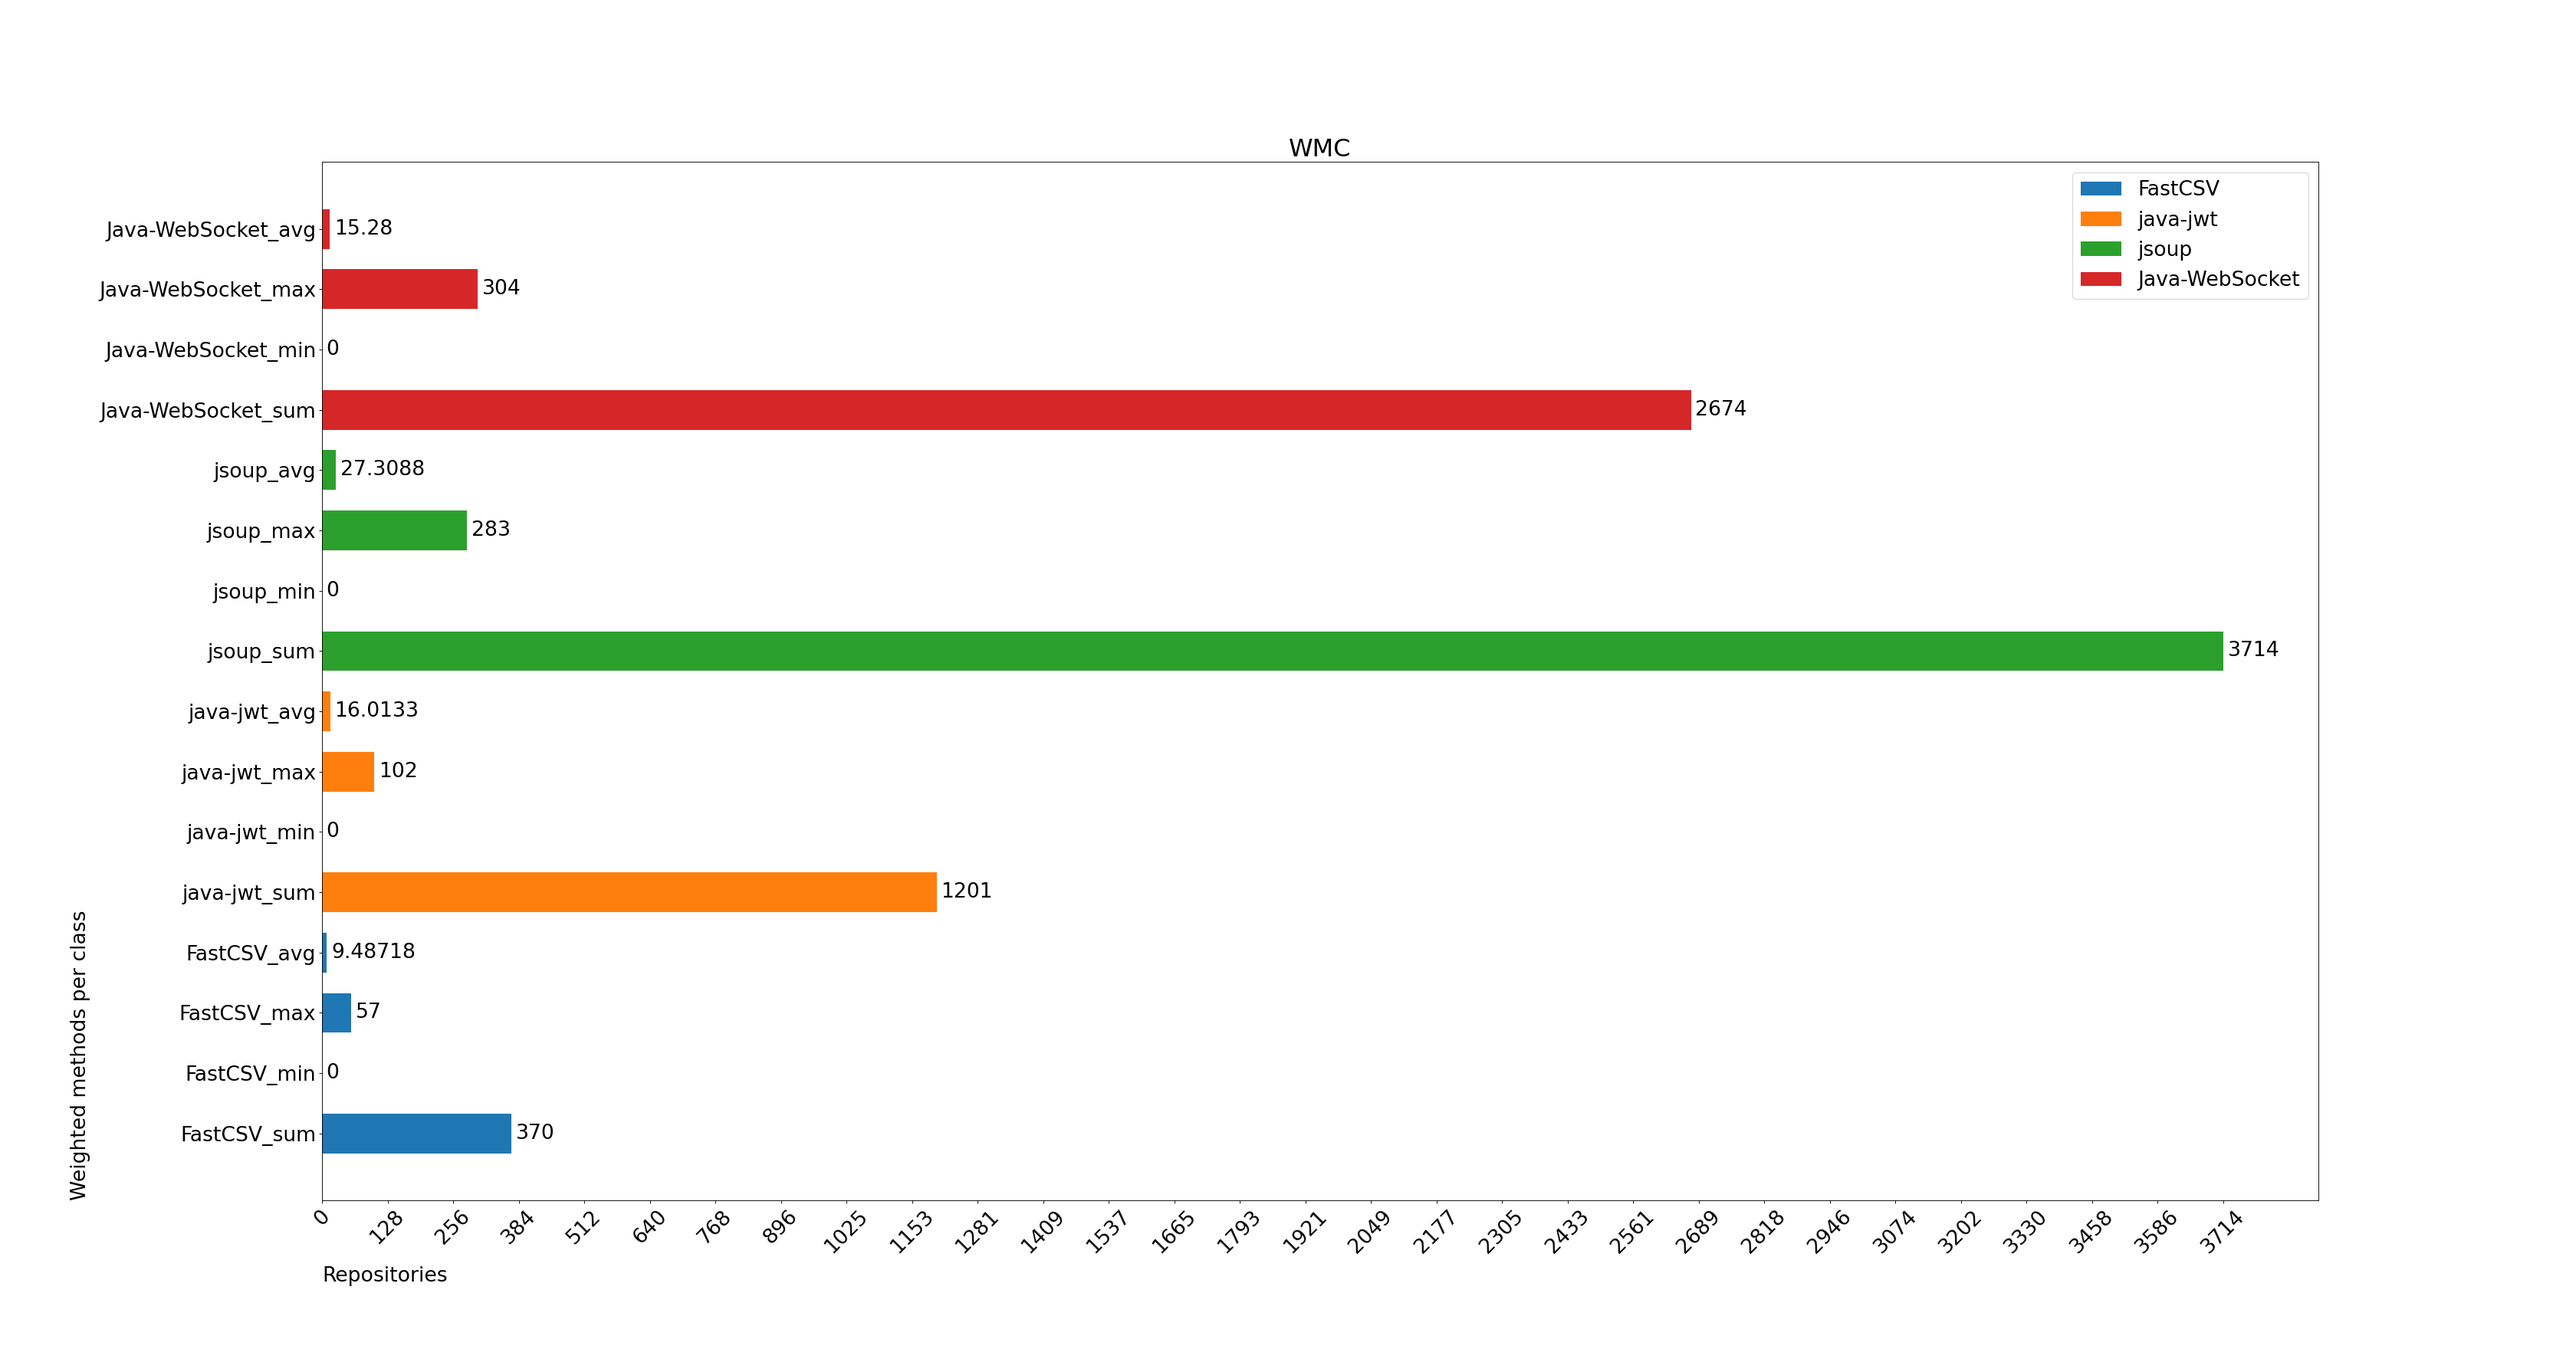
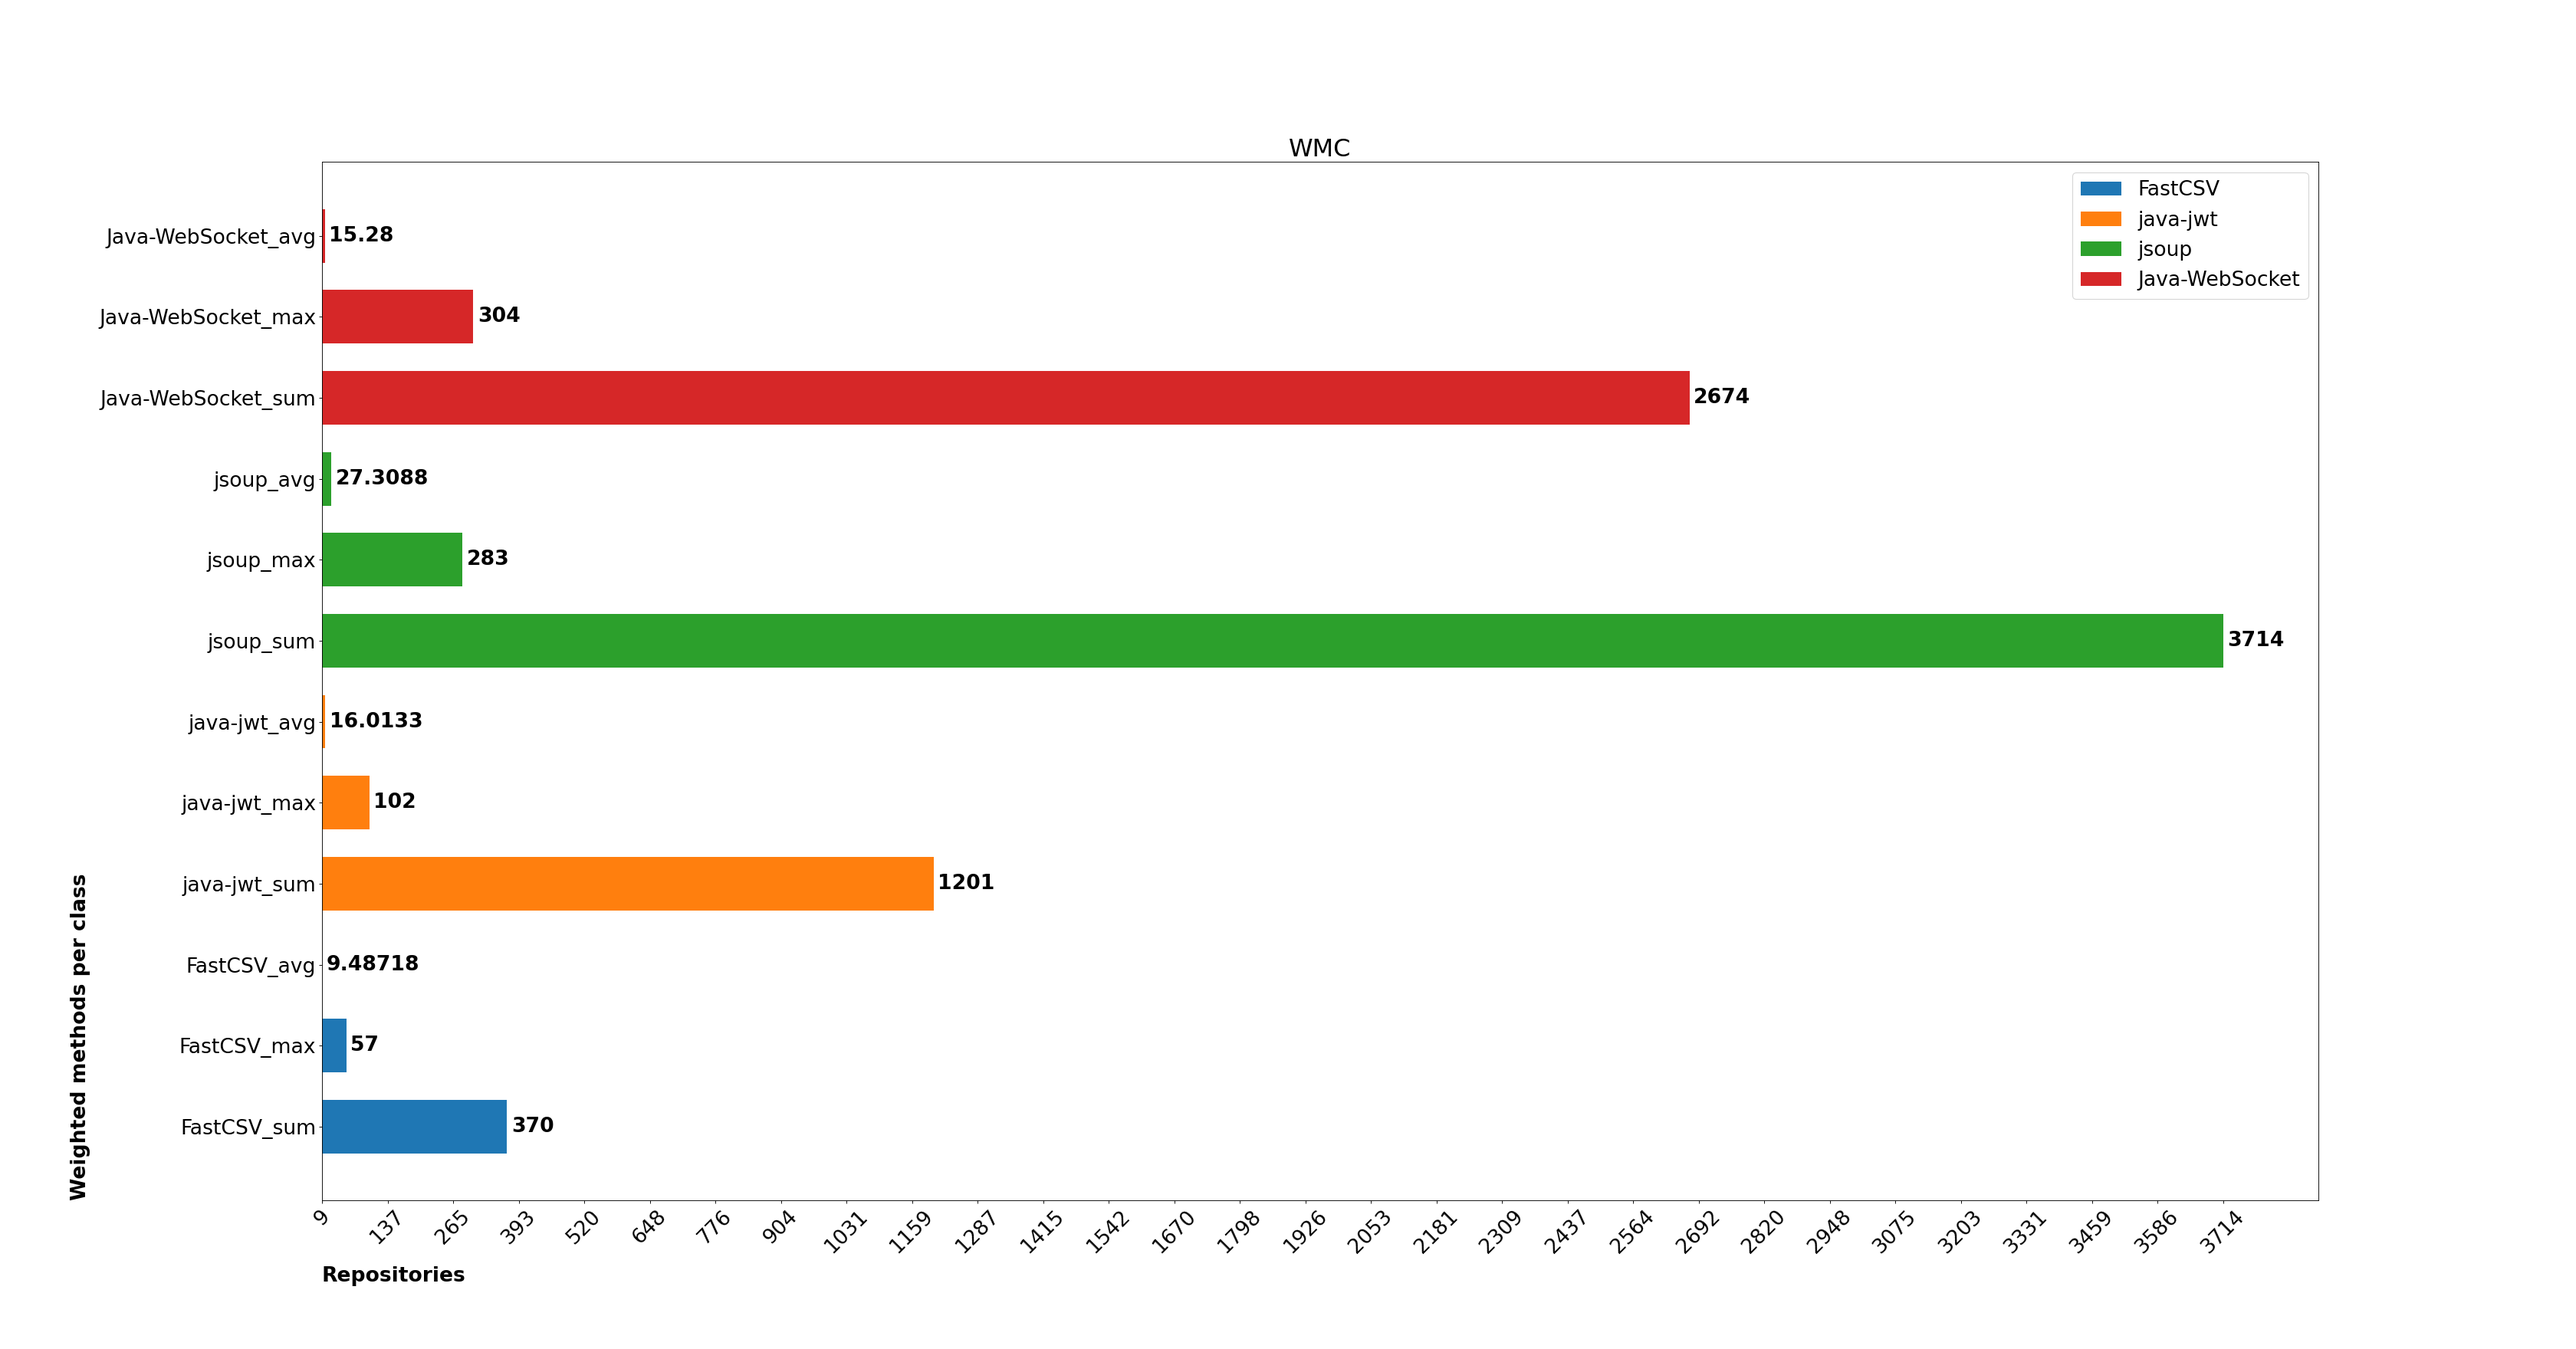
Remove minimum from static analysis graphs and fix graphical details

diff --git a/static-analysis.py b/static-analysis.py
@@ -35,12 +35,12 @@ def read_measures(repository_name, version, abc, npm, npa, wmc, coa, cda, size, 
     pub_att = [float(x) for x in pub_att]
     wmc_val = [float(x) for x in wmc_val]
     # print(magn)
-    abc.append( [min(magn), max(magn), sum(magn)/len(magn), sum(magn)] )
-    npm.append( [min(pub_met), max(pub_met), sum(pub_met)/len(pub_met), sum(pub_met)] )
-    npa.append( [min(pub_att), max(pub_att), sum(pub_att)/len(pub_att), sum(pub_att)] )
-    cda.append( [min(cda_val), max(cda_val), sum(cda_val)/len(cda_val), sum(cda_val)] )
-    coa.append( [min(coa_val), max(coa_val), sum(coa_val)/len(coa_val), sum(coa_val)] )
-    wmc.append( [min(wmc_val), max(wmc_val), sum(wmc_val)/len(wmc_val), sum(wmc_val)] )
+    abc.append( [max(magn), sum(magn)/len(magn), sum(magn)] )
+    npm.append( [max(pub_met), sum(pub_met)/len(pub_met), sum(pub_met)] )
+    npa.append( [max(pub_att), sum(pub_att)/len(pub_att), sum(pub_att)] )
+    cda.append( [max(cda_val), sum(cda_val)/len(cda_val), sum(cda_val)] )
+    coa.append( [max(coa_val), sum(coa_val)/len(coa_val), sum(coa_val)] )
+    wmc.append( [max(wmc_val), sum(wmc_val)/len(wmc_val), sum(wmc_val)] )
     size.append( [sum(magn), sum(hal_val), sum(loc_val), sum(cyc_val)] )
     print( [sum(magn), sum(hal_val), sum(loc_val), sum(cyc_val)] )
     complexity.append( [sum(wmc_val), sum(cyc_val)] )
@@ -52,8 +52,8 @@ def plot_measures(repositories, versions, abc, title, y_name, file):
     V_axis = []
     Y_axis=[]
     for i in range(0, len(repositories)):
-        V_axis.append([repositories[i] + "_sum", repositories[i] + "_min", repositories[i] + "_max", repositories[i] + "_avg"])
-        Y_axis.append([abc[i][3], abc[i][0], abc[i][1], abc[i][2]])
+        V_axis.append([repositories[i] + "_sum", repositories[i] + "_max", repositories[i] + "_avg"])
+        Y_axis.append([abc[i][2], abc[i][0], abc[i][1]])
     min_y=float("inf")
     max_y=0
     for y in Y_axis:
@@ -64,12 +64,12 @@ def plot_measures(repositories, versions, abc, title, y_name, file):
     figure(figsize=(42,22), dpi=80)
     for i in range(0,len(repositories)):
         bar=plt.barh(V_axis[i], Y_axis[i], 0.66, label = repositories[i])
-        plt.bar_label(bar,padding=5)
+        plt.bar_label(bar,padding=5, fontweight='bold')
 
     plt.xticks(get_ticks(Y_axis),rotation=45)
     plt.xlim(min_y)
-    plt.xlabel("Repositories",loc='left',labelpad = 10, fontsize=24)
-    plt.ylabel(y_name,loc='bottom',labelpad = 10, fontsize=24)
+    plt.xlabel("Repositories",loc='left',labelpad = 10, fontweight='bold', fontsize=24)
+    plt.ylabel(y_name,loc='bottom',labelpad = 10, fontweight='bold', fontsize=24)
     plt.title(title)
     plt.legend()
     plt.savefig("./graphs/static-analysis/" + file)
@@ -152,12 +152,12 @@ def plot_size_measures(repositories, versions, val, title, y_name, file):
     figure(figsize=(42,22), dpi=80)
     for i in range(0,len(repositories)):
         bar=plt.barh(V_axis[i], Y_axis[i], 0.66, label = repositories[i])
-        plt.bar_label(bar,padding=5)
+        plt.bar_label(bar,padding=5, fontweight='bold')
 
     plt.xticks(get_ticks(Y_axis),rotation=45)
     plt.xlim(min_y)
-    plt.xlabel("Repositories",loc='left',labelpad = 10, fontsize=24)
-    plt.ylabel(y_name,loc='bottom',labelpad = 10, fontsize=24)
+    plt.xlabel("Repositories",loc='left',labelpad = 10, fontweight='bold', fontsize=24)
+    plt.ylabel(y_name,loc='bottom',labelpad = 10, fontweight='bold', fontsize=24)
     plt.title(title)
     plt.legend()
     plt.savefig("./graphs/static-analysis/" + file)
@@ -182,12 +182,12 @@ def plot_complexity_measures(repositories, versions, val, title, y_name, file):
     figure(figsize=(42,20), dpi=80)
     for i in range(0,len(repositories)):
         bar=plt.barh(V_axis[i], Y_axis[i], 0.66, label = repositories[i])
-        plt.bar_label(bar,padding=5)
+        plt.bar_label(bar,padding=5, fontweight='bold')
 
     plt.xticks(get_ticks(Y_axis),rotation=45)
     plt.xlim(min_y)
-    plt.xlabel("Repositories",loc='left',labelpad = 10, fontsize=24)
-    plt.ylabel(y_name,loc='bottom',labelpad = 10, fontsize=24)
+    plt.xlabel("Repositories",loc='left',labelpad = 10, fontweight='bold', fontsize=24)
+    plt.ylabel(y_name,loc='bottom',labelpad = 10, fontweight='bold', fontsize=24)
     plt.title(title)
     plt.legend()
     plt.savefig("./graphs/static-analysis/" + file)
